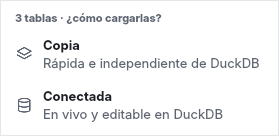
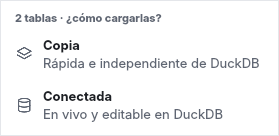
F-131: SPEC §9 y qgis-import §4 (cada capa por separado), aceptación, guía de Windows y capturas de los tres pasos
Claude-Session: https://claude.ai/code/session_01BBcaD51NVbfNd1JY2tTumc

Changed region(s): [[0.1147, 0.0882, 0.5161, 0.1765], [0.0573, 0.1176, 0.086, 0.1765]]

diff --git a/tools/pro_send_shots.py b/tools/pro_send_shots.py
@@ -1,11 +1,12 @@
 # SPDX-License-Identifier: GPL-2.0-or-later
-"""Capturas de «Enviar a DuckDB» y del arrastre de Workspace Pro (G9 · E5) para revisarlas con el propietario.
+"""Capturas de «Capas de QGIS → DuckDB» (F-131) y del arrastre de Workspace Pro para revisarlas con el
+propietario.
 
     QT_QPA_PLATFORM=offscreen python tools/pro_send_shots.py <carpeta>
 
-En QGIS en español: el diálogo limpio (todo nuevo) y con una tabla que ya existe, la base resaltada al
-soltar, el progreso en el pie, el aviso final y el mini menú al soltar tablas en el mapa.
-Escribe `enviar-<pantalla>-<qt>.png`.
+En QGIS en español: la base resaltada al soltar, los tres pasos (capas, dónde, progreso y resumen), la línea
+del pie, el aviso final con «×» y el mini menú al soltar tablas en el mapa (el otro sentido).
+Escribe `anadir-<pantalla>-<qt>.png` y `enviar-soltar-en-mapa-<qt>.png`.
 """
 
 from __future__ import annotations
@@ -60,7 +61,6 @@ def main() -> None:  # noqa: PLR0915 - todas las capturas, en orden
     from geoduck.ui.pro.places import TABLE, Place
     from geoduck.ui.pro.sidebar import DATABASE, ROLE
     from geoduck.ui.pro.workspace import ProWorkspace
-    from geoduck.ui.send_dialog import SendDialog
 
     qt = "qt" + QT_VERSION_STR[0]
     theme(False)
@@ -68,33 +68,14 @@ def main() -> None:  # noqa: PLR0915 - todas las capturas, en orden
     coordinator = SessionCoordinator(make_memory_engine, QtDispatcher(), None, LayerSender())
     coordinator.start_memory_session()
     wait(lambda: coordinator.state is SessionState.READY and coordinator.catalog is not None)
-    coordinator.attach_database(
-        AttachRequest(f"{tmp}/db.duckdb", AccessMode.READ_WRITE, OpenAction.CREATE_NEW, "db")
-    )
-    wait(lambda: coordinator.state is SessionState.READY and coordinator.catalog.get("db") is not None)
-    medidores = layer("medidores", "Point", "POINT (-68.13 -16.5)", 1200)
+    request = AttachRequest(f"{tmp}/prueba.duckdb", AccessMode.READ_WRITE, OpenAction.CREATE_NEW, "prueba")
+    coordinator.attach_database(request)
+    wait(lambda: coordinator.state is SessionState.READY and coordinator.catalog.get("prueba") is not None)
+    medidores = layer("medidores", "Point", "POINT (-68.13 -16.5)", 200000)
     redes = layer("redes_bt", "LineString", "LINESTRING (-68.1 -16.5, -68.2 -16.6)", 340)
     zonas = layer("zonas", "Polygon", "POLYGON ((-68.1 -16.5, -68.2 -16.5, -68.2 -16.6, -68.1 -16.5))", 48)
-    ids = [medidores.id(), redes.id(), zonas.id()]
-
-    def dialog(name: str) -> None:
-        shown = SendDialog(
-            coordinator.send_candidates(ids),
-            coordinator.catalog,
-            coordinator.read_import_target,
-            checked=set(ids),
-            destination=("db", "main"),
-            pro=True,
-        )
-        shown.show()
-        wait(lambda: shown.target_ready)
-        settle(0.3)
-        shoot(shown, out / f"enviar-{name}-{qt}.png")
-        shown.close()
-        shown.deleteLater()
-
-    # 1. El diálogo cuando todo es nuevo (solo se abre desde Ctrl+K o «+»: al soltar, ni aparece)
-    dialog("dialogo-limpio")
+    clientes = QgsVectorLayer("None?field=id:integer", "clientes", "memory")
+    QgsProject.instance().addMapLayer(clientes)
 
     ws = ProWorkspace(coordinator, lambda: None, Store())
     ws.resize(1440, 900)
@@ -102,41 +83,57 @@ def main() -> None:  # noqa: PLR0915 - todas las capturas, en orden
     settle()
     tree = ws.sidebar.tree
     items = [tree.topLevelItem(i) for i in range(tree.topLevelItemCount())]
-    base = next(i for i in items if (i.data(0, ROLE) or ("",))[0] == DATABASE and i.text(0) == "db")
-    # 2. Capas arrastradas sobre «db»: borde de acento y el pie dice dónde irán
+    base = next(i for i in items if (i.data(0, ROLE) or ("",))[0] == DATABASE and i.text(0) == "prueba")
+    # Capas arrastradas sobre «prueba»: borde de acento y el pie dice dónde irán
     tree.drop_item = base
     tree.viewport().update()
-    ws.notify(tr("Drop to send {0} layer(s) to «{1}»").format(3, "db"))
+    ws.notify(tr("Drop to send {0} layer(s) to «{1}»").format(3, "prueba"))
     settle()
-    shoot(ws, out / f"enviar-soltar-en-base-{qt}.png")
+    shoot(ws, out / f"anadir-soltar-en-base-{qt}.png")
     tree.drop_item = None
-    # 3. Enviando: barra fina y «Cancelar» en el pie
-    ws.show_progress(tr("Sending {0} layer(s) to DuckDB…").format(3), 1588)
-    ws.set_progress(900)
-    settle()
-    shoot(ws, out / f"enviar-progreso-{qt}.png")
-    ws.hide_progress()
-    # 4. Sin diálogo (todo nuevo): el aviso final
-    ws.send_layers(ids, ("db", "main"))
-    wait(lambda: ws.quick_send.last_report is not None and coordinator.state is SessionState.READY, 60)
+    # 1. «Añadir capas de QGIS a DuckDB…»: todas las capas, agrupadas; las seleccionadas en QGIS, marcadas
+    ws.add_layers([medidores.id(), redes.id(), zonas.id()])
+    flow = ws.to_duckdb
+    window = flow.window
+    settle(0.3)
+    shoot(window, out / f"anadir-paso1-{qt}.png")
+    # 2. Dónde: la base, el esquema y qué pasará
+    flow.next_button.click()
+    wait(lambda: window.send_dialog is not None and window.send_dialog.target_ready)
+    dialog = window.send_dialog
+    dialog.destination.setCurrentIndex([d for d, _s in dialog.destinations].index("prueba"))
+    wait(lambda: dialog.target_ready)
+    flow._sync_add()
+    settle(0.3)
+    shoot(window, out / f"anadir-paso2-{qt}.png")
+    # 3. Progreso capa por capa
+    flow.add_button.click()
+    big = next(i for i, state in enumerate(flow.states) if state["name"] == "medidores")
+    wait(lambda: flow.states[big]["state"] == "running" and flow.states[big]["rows"] > 0, 60)
+    waiting = [i for i, state in enumerate(flow.states) if state["state"] == "waiting"]
+    if waiting:
+        flow.remove(waiting[-1])  # una capa quitada mientras espera
+    settle(0.2)
+    shoot(window, out / f"anadir-paso3-{qt}.png")
+    shoot(ws, out / f"anadir-pie-{qt}.png")
+    wait(lambda: not flow.running, 120)
+    settle(0.3)
+    shoot(window, out / f"anadir-paso3-listo-{qt}.png")
+    window.hide()
+    ws.toast(flow.done_text(), [(tr("Open"), lambda: None), (tr("Undo"), lambda: None)], 0)
     settle(0.4)
-    shoot(ws, out / f"enviar-aviso-{qt}.png")
-    # 5. Las mismas capas otra vez: ya existen, así que sí se abre el diálogo (con «Qué pasará»)
-    coordinator.refresh_catalog()
-    wait(lambda: coordinator.state is SessionState.READY)
-    dialog("dialogo-ya-existe")
-    # 6. Tablas soltadas en el mapa: el mini menú
+    shoot(ws, out / f"anadir-aviso-{qt}.png")
+    # Tablas de DuckDB soltadas en el mapa: el mini menú (el otro sentido)
     handler = PlacesDropHandler(lambda: ws)
-    places = [Place(TABLE, name, "db", "main") for name in ("medidores", "redes_bt", "zonas")]
+    places = [Place(TABLE, name, "prueba", "main") for name in ("medidores", "redes_bt")]
     handler.show_menu(ws, places, ws.mapToGlobal(ws.rect().center()))
     settle()
     shoot(handler.menu, out / f"enviar-soltar-en-mapa-{qt}.png")
     handler.menu.close()
     ws.detach_coordinator()
     coordinator.shutdown(10)
-    settings.remove("locale/overrideFlag")
-    settings.remove("locale/userLocale")
-    app.exitQgis()
+    sys.stdout.flush()
+    os._exit(0)  # como pro_shots: sin la limpieza de PyQt5 al salir
 
 
 if __name__ == "__main__":

diff --git a/docs/g9/acceptance.md b/docs/g9/acceptance.md
@@ -2,7 +2,7 @@
 
 **Estado:** Propuesto para aceptación (E7). La aceptación la da el propietario; el tag y la release `v0.10.0a1`
 también los hace él. Versión en `metadata.txt` y `geoduck/__init__.py`: `0.10.0a1` (en este PR).
-**Base verificada:** E0–E6b (#114–#124), la corrección G8 de cancelar (#119) y F-130 (#126). Las cifras de la CI de este PR se
+**Base verificada:** E0–E6b (#114–#124), la corrección G8 de cancelar (#119) F-130 (#126) y las observaciones de la prueba en Windows (#127). Las cifras de la CI de este PR se
 anotan en un comentario del PR. **Contrato:** `docs/g9/plan.md`, `spec/specs/workspace-pro-spec.md`
 (GD-WSP-001..012), ADR-0016, `spec/qa/test-strategy.md`.
 
@@ -36,7 +36,7 @@ Archivos en `tests/`: `qgis/test_pro_design.py` (D), `qgis/test_pro_workspace.py
 | AT-WSP-006 | Ctrl+K con 1 000 objetos; sin acentos; Intro y Esc | W `test_ctrl_k_finds_without_accents_opens_with_enter_and_closes_with_esc`, `test_ctrl_k_with_a_thousand_objects_answers_under_50_ms_per_key`; u-F (5 pruebas) |
 | AT-WSP-007 | «Copia» y «Conectada»; GDAL sin `WriteArrow`; guardar y reabrir con una «Copia»; «Más opciones…» | L `test_copy_is_the_fast_one_unless_gdal_cannot`, `test_copy_from_the_table_tab_loads_it_with_its_crs_and_without_questions`, `test_connected_from_the_table_is_the_table_itself_and_with_filters_only_those_rows`, `test_a_missing_crs_is_asked_once_and_cancel_loads_nothing`, `test_saving_the_project_offers_to_keep_the_copies_and_they_survive_reopening`, `test_no_thanks_is_not_asked_again_and_reopening_explains_the_lost_copies`, `test_reproject_to_on_a_copy`, `test_a_text_column_loads_as_geometry_with_the_crs_asked_once`, `test_choosing_one_of_two_geometries_loads_one_layer`; X `test_view_on_map_after_loading_selects_zooms_and_minimizes_the_window`; las cargas de G3–G4 (`test_crs_axes`, `test_families`, `test_multi_geometry`, `test_load_connected`) con el aviso nuevo |
 | AT-WSP-008 | Recientes y ★ tras reiniciar; objeto borrado | W `test_favorites_survive_a_restart_and_a_dropped_table_is_dimmed_with_its_reason`, `test_new_queries_are_numbered_and_tabs_come_back_after_a_restart`; u-P (9 pruebas: solo nombres en las opciones) |
-| AT-WSP-009 | Enviar desde el diálogo nuevo; arrastrar capas a una base; Ctrl+K | S `test_dropping_on_a_database_sends_without_a_dialog_and_offers_open_and_undo`, `test_an_existing_table_opens_the_dialog_with_the_new_style`, `test_a_selection_is_a_decision_too`, `test_a_database_that_cannot_store_the_crs_is_a_decision`, `test_dropping_on_empty_space_goes_to_the_current_database`, `test_tables_dragged_to_the_map_ask_how_and_ask_the_crs_once`; X `test_the_layer_menu_sends_like_dropping_and_shows_geoduck`, `test_the_plus_entry_always_opens_the_dialog_to_choose`; AT-IMP-001..007 siguen en `test_send_ui.py` y `test_import_layers.py` |
+| AT-WSP-009 | «Capas de QGIS → DuckDB» en tres pasos desde arrastrar, el clic derecho y «+»/Ctrl+K; cada capa por separado | S `test_dropping_on_a_database_opens_the_three_steps_with_that_database`, `test_each_layer_is_saved_on_its_own_and_one_can_be_removed`, `test_cancel_all_before_it_starts_adds_nothing`, `test_a_layer_that_fails_is_marked_and_the_others_go_on`, `test_in_the_background_the_footer_brings_it_back_and_the_end_shows_a_closable_notice`, `test_an_existing_table_is_shown_and_skipped_unless_chosen`, `test_add_layers_shows_every_layer_grouped_and_an_empty_project_says_so`, `test_while_adding_another_drop_shows_the_progress`, `test_a_database_that_cannot_store_the_crs_says_so_in_step_two`, `test_dropping_on_empty_space_goes_to_the_current_database`, `test_tables_dragged_to_the_map_ask_how_and_ask_the_crs_once`; X `test_the_layer_menu_opens_step_one_with_the_selected_layers`, `test_the_plus_entry_opens_step_one_with_every_layer`; AT-IMP-001..007 siguen en `test_send_ui.py` y `test_import_layers.py` |
 | AT-WSP-010 | Solo teclado; inglés y español; sin sesión, cargando, vacío y error; panel estrecho | I (inglés, español y otro idioma, con QGIS real); Q `test_without_duckdb_everything_is_grey_except_start`; W `test_without_session_it_offers_to_start_and_then_welcomes`; X `test_a_narrow_panel_keeps_every_action_within_reach`, `test_an_aborted_transaction_offers_roll_back_and_the_session_recovers`; `test_plugin.py` `test_broken_environment_disables_start` (entorno incompleto); D `test_buttons_always_have_a_name_and_help` |
 | AT-WSP-011 | Actualizar desde 0.9.0a1 con cuadernos guardados abiertos | X `test_updating_keeps_presentation_and_open_notebooks_come_back_as_queries` |
 | AT-WSP-012 | Medidas de §13 en QGIS 3.44 y 4.2 | §5 y [`docs/evidence/g9/rendimiento/`](../evidence/g9/rendimiento/README.md) |
@@ -70,7 +70,7 @@ qué pasará, antes de una acción una frase de lo que ocurrirá».
 | Cargar en QGIS | Copia o Conectada, con una línea cada una | «Más opciones…», con resumen y una línea por opción | Cumple (E6b) |
 | SRC que falta | Solo aparece si falta; una vez para todas | — | Cumple |
 | Guardar copias | Un clic, con qué archivo se crea | «No, gracias» | Cumple |
-| Enviar capas | Soltar o menú de capa: sin ventana si todo es nuevo; «Deshacer» | La ventana solo si hay algo que decidir; «Reproyectar» en «Más opciones» | Cumple |
+| Capas de QGIS → DuckDB | Tres pasos claros, el mismo desde las tres formas; la base donde se soltó ya elegida | «Más opciones» en el paso 2; «×» por capa y «Cancelar todo» en el paso 3 | Cumple (F-131) |
 | Tablas al mapa | Mini menú Copia / Conectada donde se soltó | — | Cumple |
 | Ctrl+K | Escribir e Intro | Acciones en la misma lista | Cumple |
 | Historial | Doble clic abre la sentencia | Filtro y «Limpiar» | Cumple |
@@ -102,6 +102,8 @@ Ver [`docs/evidence/g9/rendimiento/README.md`](../evidence/g9/rendimiento/README
 | 2026-11-06 | E5 («Tú decide»): enviar sin ventana si no hay nada que decidir; ventana más limpia; base resaltada al soltar; progreso en el pie |
 | 2026-11-06 | E6 («Tú decide»): «Historial», «Revertir» y «Ver en el mapa» en la interfaz nueva; el menú de capa envía como soltar |
 | 2026-11-06 | Las opciones avanzadas de carga no se pierden: «Más opciones…» (E6b) |
+| 2026-11-06 | Tras la prueba en Windows: arrastrar, el clic derecho y «Añadir capas de QGIS a DuckDB…» abren la misma ventana de tres pasos (capas, dónde, progreso); cada capa se guarda por separado; «Añadir … a DuckDB» / «Cargar en QGIS»; GeoDuck es el complemento y DuckDB la base (F-131) |
+| 2026-11-06 | Todos los avisos llevan «×» (F-132) |
 | 2026-11-06 | **Principio de toda la interfaz:** el balance entre ofrecer opciones y no complicar (SPEC §1) |
 
 ## 7. Hallazgos
@@ -116,6 +118,8 @@ Ver [`docs/evidence/g9/rendimiento/README.md`](../evidence/g9/rendimiento/README
 | F-128 | DuckDB 1.5 no aborta la transacción por un error de catálogo (2.0 sí); el texto de la sentencia lleva «;» solo en 2.0 | Las pruebas usan una clave repetida, que aborta en las dos (E6) |
 | F-129 | En QGIS 3.34, dos pruebas de `test_pro_load` fallan **corridas solas** (la capa queda sin SRC); dentro de la suite pasan. También en `main` antes de E6 | Abierto: se revisa en G10. No afecta a QGIS real (la base de SRC ya está iniciada) — por confirmar en la prueba de Windows, paso 4b |
 | F-130 | En la prueba de Windows (QGIS 3.44.7 de OSGeo4W), GeoDuck no abría: la DLL de `pyarrow._parquet` no cargaba y `initGui` importaba `pyarrow.parquet` | `pyarrow.parquet` solo al mirar si una capa es GeoParquet; sin él, el camino general (#126) |
+| F-131 | «Enviar capas de QGIS a DuckDB…» no se entendía y, sin capas vectoriales, solo lo decía una línea del pie; cada forma de añadir capas se comportaba distinto | Una ventana de tres pasos para las tres formas; sin capas lo dice dentro; progreso y cancelación por capa (#127) |
+| F-132 | Los avisos no tenían cómo cerrarse | «×» en todos (#127) |
 | — | Las capturas de la CI (`pro_shots`) se caían al cerrar Qt 5 tras escribirlas | Salen sin la limpieza de PyQt5 (E6) |
 
 ## 8. Limitaciones conocidas

diff --git a/spec/GEODUCK_SPEC_MAESTRA.md b/spec/GEODUCK_SPEC_MAESTRA.md
@@ -1266,10 +1266,13 @@ acción explica que hay que iniciar una.
 - «Abrir la tabla al terminar» (recordado). Ctrl+Intro envía; Esc cancela.
 
 ## 4. Garantías (GD-IMP-003)
-- **Todo o nada:** todas las capas del envío en **una transacción** de DuckDB en la base destino; si una
-  falla o se cancela, `ROLLBACK` y no queda ninguna tabla nueva, reemplazada ni ampliada.
+- **Cada capa por separado** (desde G9, propietario 2026-11-06; antes «todo o nada»): cada capa en **su
+  transacción** de DuckDB en la base destino; si una falla o se cancela, `ROLLBACK` de esa capa y no queda su
+  tabla nueva, reemplazada ni ampliada; las que ya terminaron quedan («Deshacer» borra las nuevas).
+  `import_batches` sigue siendo «todo o nada» para lo que recibe; la interfaz le pasa una capa cada vez
+  (workspace-pro-spec §9).
 - **Progreso y cancelación** por capa y en total; la interfaz de QGIS sigue respondiendo.
-- **Conteo:** al terminar, filas en DuckDB = entidades leídas de cada capa; si no, `ROLLBACK` y error.
+- **Conteo:** al terminar cada capa, filas en DuckDB = entidades leídas; si no, `ROLLBACK` de esa capa y error.
 - **Sin pérdidas silenciosas:** un campo que no se puede convertir, una geometría ilegible o un SRC que no se
   puede expresar detienen el envío con su motivo, o se avisan antes de enviar si el diálogo ya lo sabe.
 - La capa de QGIS, su selección y su filtro no cambian.
@@ -1450,23 +1453,41 @@ Reproyectar, separar por tipo y SRC siguen igual (spatial-spec), escondidos hast
 - Se recuerdan entre reinicios de QGIS (propietario, 2026-11-05). Se guardan solo **nombres** (base, esquema, objeto; ruta del `.sql`) en `QgsSettings`, nunca datos. Si un
   objeto ya no existe, se muestra atenuado con su motivo.
 
-## 9. Enviar a DuckDB (GD-WSP-008; qgis-import-spec)
-El diálogo de G8 rehecho con el sistema de diseño, mismo comportamiento. Ctrl+K → «Enviar capa de QGIS a
-DuckDB…». «Reproyectar a…» sigue siendo global para todo el envío (decisión, 2026-11-05).
+## 9. Capas de QGIS → DuckDB (GD-WSP-008; qgis-import-spec)
+**Una sola ventana de tres pasos para las tres formas** (propietario, 2026-11-06, tras la prueba en Windows:
+F-131; reemplaza el envío directo de E5). Ctrl+K y «+» → «Añadir capas de QGIS a DuckDB…»; en QGIS, clic
+derecho sobre capas → «Añadir a DuckDB…». «Reproyectar a…» sigue siendo global para todas las capas.
 
-**Arrastrar, en los dos sentidos** (propietario, 2026-11-06; E5). Lo mínimo: se pregunta solo lo que falta.
-- **QGIS → DuckDB:** soltar una o varias capas del panel de capas en una base de la barra lateral (en el panel
-  acoplado, en cualquier parte: la base actual). Cada tabla guarda el SRC de su capa. Simplificaciones
-  (propietario, 2026-11-06: «Tú decide»):
-  1. **Sin diálogo si no hay nada que decidir:** si todas serán tablas nuevas, sin selección y con SRC, se
-     envían directamente y el pie avisa «N capas enviadas a db · Abrir · Deshacer». El diálogo (con la base y
-     las capas elegidas) solo se abre si hay algo que decidir: una tabla que ya existe, una capa que no se
-     puede, una selección o el SRC.
-  2. **Diálogo más limpio:** sin la columna «Qué pasará» si todo es una tabla nueva; «Reproyectar a…» y «Vista
-     en vez de copia», plegados bajo «Más opciones».
-  3. **Dónde se suelta, claro:** la base bajo el cursor se resalta con un borde de acento y el pie dice
-     «Suelta para enviar N capas a «db»»; en un espacio vacío o en la cabecera, la base actual.
-  4. **Progreso en el pie:** una barra fina y «Cancelar»; sin otra ventana.
+| Cómo empieza | Paso 1 · Capas | Paso 2 · Dónde |
+|---|---|---|
+| Arrastrar capas a GeoDuck | Las arrastradas, marcadas | La base donde se soltaron (o la actual) |
+| Clic derecho › «Añadir a DuckDB…» | Las seleccionadas en QGIS, marcadas | La base actual |
+| «Añadir capas de QGIS a DuckDB…» | Todas las del proyecto; marcadas las seleccionadas en QGIS | La base actual |
+
+1. **Capas:** agrupadas en Puntos, Líneas, Polígonos y Tablas sin geometría, con el icono de QGIS, entidades y
+   SRC; las que no se pueden (ráster…), en gris con su motivo. Sin capas vectoriales, la ventana lo dice.
+   «N capas elegidas» y «Siguiente ›».
+2. **Dónde:** base y esquema, **siempre cambiables** (solo bases escribibles); «Qué pasará» con cada capa
+   (siempre a la vista); «Más opciones» («Reproyectar a…», «Vista en vez de copia»); una frase de lo que
+   ocurrirá. «‹ Atrás» y «Añadir N capas a DuckDB».
+3. **Progreso:** una fila por capa (✓ añadida, ⟳ copiándose con su %, ○ en espera, ✕ cancelada o con error).
+   «×» quita una capa en espera o detiene la que se copia; «Cancelar todo»; «Seguir en segundo plano». Al
+   terminar: qué pasó con cada una, «Deshacer», «Abrir» y «Cerrar».
+
+- **Cada capa se guarda por separado** (una transacción por capa; reemplaza «todo o nada» de G8, propietario
+  2026-11-06): las que terminaron quedan aunque se cancelen o fallen otras; «Deshacer» borra las tablas
+  nuevas. Las capas van una tras otra (DuckDB escribe de a una cosa).
+- **En segundo plano:** el pie muestra «⟳ Añadiendo 2 de 4 a DuckDB · redes_bt 62 %»; un clic (o Ctrl+K ›
+  «Ver progreso: capas de QGIS → DuckDB») vuelve al paso 3. Si se intenta añadir más mientras tanto, se
+  muestra el paso 3 en curso: «Termina o cancela estas capas para añadir más». Al terminar con la ventana
+  cerrada, un aviso «N capas de QGIS añadidas a DuckDB · prueba · Abrir · Deshacer · ×».
+- **Dónde se suelta, claro:** la base bajo el cursor se resalta con un borde de acento y el pie dice
+  «Suelta para enviar N capas a «db»»; en un espacio vacío o en la cabecera, la base actual.
+- **Nombres:** «Añadir … a DuckDB» siempre termina en DuckDB (QGIS → DuckDB); «Cargar en QGIS» siempre termina
+  en QGIS (DuckDB → QGIS). **GeoDuck** es el complemento; **DuckDB**, la base donde quedan los datos.
+- **Avisos:** todos llevan «×» para cerrarlos sin hacer nada más (F-132).
+
+**Arrastrar, en los dos sentidos** (propietario, 2026-11-06; E5).
 - **DuckDB → QGIS:** soltar una o varias tablas o vistas en el mapa o en el panel de capas abre un **mini
   menú** «Copia» / «Conectada»: un clic carga todo lo soltado; Esc cancela. El SRC sale de la columna de
   geometría (`GEOMETRY('EPSG:4326')`); **solo si a alguna le falta**, una sola ventana pequeña pide uno para

diff --git a/docs/certification/workspace-pro.md b/docs/certification/workspace-pro.md
@@ -68,20 +68,25 @@ Anote cada paso como **OK** o **Falla** (con captura) en `docs/evidence/g9/windo
 | 4g | Cierre y abra el proyecto | Las capas guardadas abren desde el GeoPackage; si eligió «No, gracias», un aviso dice cuáles quedaron vacías y por qué |
 | 4h | Arrastre `pozos` (y otra tabla) desde la barra lateral **al mapa**; repita soltándolas en el **panel de capas** | Mini menú «2 tablas · ¿cómo cargarlas?» con Copia / Conectada donde soltó; Esc cancela sin cargar nada |
 
-## 5. Enviar capas a DuckDB (G8 con la interfaz nueva; AT-WSP-009, AT-IMP-001..007)
+## 5. Capas de QGIS → DuckDB (G8 con la interfaz nueva; AT-WSP-009, AT-IMP-001..007)
 
 | # | Haga | Debe pasar |
 |---|---|---|
-| 5a | Clic derecho sobre el GeoPackage en el panel de capas → «Enviar a DuckDB…» | Sin ventana: GeoDuck se muestra, una barra fina con «Cancelar» en el pie y, al terminar, «Capa «…» enviada a … · Abrir · Deshacer» |
-| 5b | «Abrir» | La tabla, en una pestaña |
-| 5c | Arrastre el Shapefile y el CSV desde el panel de capas **sobre «prueba»** en la barra lateral | La base se resalta con un borde y el pie dice «Suelta para enviar 2 capa(s) a «prueba»»; se envían a «prueba» sin ventana |
-| 5d | Arrastre otra vez el GeoPackage sobre «prueba» | Ahora **sí** se abre la ventana (la tabla ya existe): «Ya existe: no se enviará»; elija «Reemplazar» o «Otro nombre» |
-| 5e | Seleccione unas entidades en el mapa y arrastre la capa | Se abre la ventana con «Solo las entidades seleccionadas (N)» |
-| 5f | «+» → «Enviar capas de QGIS a DuckDB…» | La ventana con todas las capas del proyecto; el ráster, en gris con su motivo; «Más opciones» pliega «Reproyectar a…» |
-| 5g | Envíe una capa de 1 millón de entidades y pulse «Cancelar» en el pie a mitad | «Envío cancelado: no cambió nada en DuckDB.»; la tabla no existe |
-| 5h | Tras un envío de una tabla nueva, «Deshacer» | «Deshecho: …»; la tabla desaparece de la barra lateral |
-| 5i | Cierre DuckDB («Cerrar DuckDB») y repita 5a | El pie dice «Inicia DuckDB para enviar capas.» |
-| 5j | Con DuckDB 1.5.x, envíe a una base **nueva** en archivo | La ventana se abre: esa base no guarda el SRC; «Enviar sin SRC» aparece y nada se envía hasta marcarlo (F-120) |
+| 5a | Clic derecho sobre el GeoPackage en el panel de capas → «Añadir a DuckDB…» | GeoDuck se muestra con «Capas de QGIS → DuckDB · 1 de 3» y esa capa marcada |
+| 5b | «Siguiente ›» | Paso 2: base y esquema (puede cambiarlos), «Qué pasará» («Tabla nueva») y la frase de lo que ocurrirá |
+| 5c | «Añadir 1 capa a DuckDB» | Paso 3: la capa con ⟳ y su % hasta ✓; al terminar «Deshacer», «Abrir» y «Cerrar». «Abrir» abre la tabla en una pestaña |
+| 5d | Arrastre el Shapefile y el CSV desde el panel de capas **sobre «prueba»** en la barra lateral | La base se resalta con un borde y el pie dice «Suelta para enviar 2 capa(s) a «prueba»»; paso 1 con esas dos capas; en el paso 2, «prueba» ya elegida |
+| 5e | Arrastre otra vez el GeoPackage sobre «prueba» y pase al paso 2 | «Ya existe: no se enviará»; elija «Reemplazar» u «Otro nombre» para poder añadirla |
+| 5f | Seleccione unas entidades en el mapa, arrastre la capa y pase al paso 2 | «Solo las entidades seleccionadas (N)» |
+| 5g | «+» → «Añadir capas de QGIS a DuckDB…» | Paso 1 con **todas** las capas, agrupadas (Puntos, Líneas, Polígonos, Tablas sin geometría); el ráster, en gris con su motivo; las seleccionadas en QGIS, ya marcadas |
+| 5h | Añada 4 capas (una grande, de cientos de miles de entidades); en el paso 3 pulse «×» en una que espera | Esa queda «cancelada» y las demás siguen; al terminar, las añadidas quedan en DuckDB |
+| 5i | Repita y pulse «×» en la que se está copiando | Esa se detiene y no queda en DuckDB; la siguiente empieza |
+| 5j | Repita y pulse «Seguir en segundo plano» | La ventana se cierra; el pie dice «⟳ Añadiendo … a DuckDB · …%»; un clic ahí vuelve al paso 3. Al terminar con la ventana cerrada: aviso «N capas de QGIS añadidas a DuckDB · …» con «Abrir», «Deshacer» y **«×»** |
+| 5k | «Cancelar todo» a mitad | Se detiene la actual y se quitan las que faltan; las ya añadidas quedan |
+| 5l | «Deshacer» tras añadir tablas nuevas | «Deshecho: …»; las tablas desaparecen de la barra lateral |
+| 5m | Sin capas en el proyecto, «+» → «Añadir capas de QGIS a DuckDB…» | La ventana dice «Tu proyecto de QGIS no tiene capas vectoriales…»; «Siguiente» en gris |
+| 5n | Cierre DuckDB («Cerrar DuckDB») y arrastre una capa | El pie dice «Inicia DuckDB para añadir capas.» |
+| 5o | Con DuckDB 1.5.x, añada a una base **nueva** en archivo | En el paso 2 aparece «Enviar sin SRC»: esa base no guarda el SRC; no se añade hasta marcarlo (F-120) |
 
 ## 6. Pantalla, tema, monitores y teclado (AT-WSP-001, 010)
 
@@ -100,8 +105,8 @@ Windows: Configuración → Pantalla → Escala. Reinicie QGIS después de cada 
 
 | # | Haga | Debe pasar |
 |---|---|---|
-| 7a | QGIS en inglés, reinicie | «Start DuckDB», «Send to DuckDB…», «Load into QGIS», «More options…» |
-| 7b | QGIS en español, reinicie | «Iniciar DuckDB», «Enviar a DuckDB…», «Cargar en QGIS», «Más opciones…» |
+| 7a | QGIS en inglés, reinicie | «Start DuckDB», «Add to DuckDB…», «Load into QGIS», «More options…» |
+| 7b | QGIS en español, reinicie | «Iniciar DuckDB», «Añadir a DuckDB…», «Cargar en QGIS», «Más opciones…» |
 | 7c | (Opcional, en un QGIS sin DuckDB) Abra GeoDuck | «El entorno no está listo para GeoDuck» · «Falta: DuckDB…» con «Diagnóstico»; «Iniciar DuckDB» en gris |
 | 7d | «Acerca de GeoDuck…» (menú Base de datos › GeoDuck) | Versión 0.10.0a1, licencia, enlaces y componentes; sin correos |
 

diff --git a/spec/specs/workspace-pro-spec.md b/spec/specs/workspace-pro-spec.md
@@ -101,23 +101,41 @@ Reproyectar, separar por tipo y SRC siguen igual (spatial-spec), escondidos hast
 - Se recuerdan entre reinicios de QGIS (propietario, 2026-11-05). Se guardan solo **nombres** (base, esquema, objeto; ruta del `.sql`) en `QgsSettings`, nunca datos. Si un
   objeto ya no existe, se muestra atenuado con su motivo.
 
-## 9. Enviar a DuckDB (GD-WSP-008; qgis-import-spec)
-El diálogo de G8 rehecho con el sistema de diseño, mismo comportamiento. Ctrl+K → «Enviar capa de QGIS a
-DuckDB…». «Reproyectar a…» sigue siendo global para todo el envío (decisión, 2026-11-05).
+## 9. Capas de QGIS → DuckDB (GD-WSP-008; qgis-import-spec)
+**Una sola ventana de tres pasos para las tres formas** (propietario, 2026-11-06, tras la prueba en Windows:
+F-131; reemplaza el envío directo de E5). Ctrl+K y «+» → «Añadir capas de QGIS a DuckDB…»; en QGIS, clic
+derecho sobre capas → «Añadir a DuckDB…». «Reproyectar a…» sigue siendo global para todas las capas.
 
-**Arrastrar, en los dos sentidos** (propietario, 2026-11-06; E5). Lo mínimo: se pregunta solo lo que falta.
-- **QGIS → DuckDB:** soltar una o varias capas del panel de capas en una base de la barra lateral (en el panel
-  acoplado, en cualquier parte: la base actual). Cada tabla guarda el SRC de su capa. Simplificaciones
-  (propietario, 2026-11-06: «Tú decide»):
-  1. **Sin diálogo si no hay nada que decidir:** si todas serán tablas nuevas, sin selección y con SRC, se
-     envían directamente y el pie avisa «N capas enviadas a db · Abrir · Deshacer». El diálogo (con la base y
-     las capas elegidas) solo se abre si hay algo que decidir: una tabla que ya existe, una capa que no se
-     puede, una selección o el SRC.
-  2. **Diálogo más limpio:** sin la columna «Qué pasará» si todo es una tabla nueva; «Reproyectar a…» y «Vista
-     en vez de copia», plegados bajo «Más opciones».
-  3. **Dónde se suelta, claro:** la base bajo el cursor se resalta con un borde de acento y el pie dice
-     «Suelta para enviar N capas a «db»»; en un espacio vacío o en la cabecera, la base actual.
-  4. **Progreso en el pie:** una barra fina y «Cancelar»; sin otra ventana.
+| Cómo empieza | Paso 1 · Capas | Paso 2 · Dónde |
+|---|---|---|
+| Arrastrar capas a GeoDuck | Las arrastradas, marcadas | La base donde se soltaron (o la actual) |
+| Clic derecho › «Añadir a DuckDB…» | Las seleccionadas en QGIS, marcadas | La base actual |
+| «Añadir capas de QGIS a DuckDB…» | Todas las del proyecto; marcadas las seleccionadas en QGIS | La base actual |
+
+1. **Capas:** agrupadas en Puntos, Líneas, Polígonos y Tablas sin geometría, con el icono de QGIS, entidades y
+   SRC; las que no se pueden (ráster…), en gris con su motivo. Sin capas vectoriales, la ventana lo dice.
+   «N capas elegidas» y «Siguiente ›».
+2. **Dónde:** base y esquema, **siempre cambiables** (solo bases escribibles); «Qué pasará» con cada capa
+   (siempre a la vista); «Más opciones» («Reproyectar a…», «Vista en vez de copia»); una frase de lo que
+   ocurrirá. «‹ Atrás» y «Añadir N capas a DuckDB».
+3. **Progreso:** una fila por capa (✓ añadida, ⟳ copiándose con su %, ○ en espera, ✕ cancelada o con error).
+   «×» quita una capa en espera o detiene la que se copia; «Cancelar todo»; «Seguir en segundo plano». Al
+   terminar: qué pasó con cada una, «Deshacer», «Abrir» y «Cerrar».
+
+- **Cada capa se guarda por separado** (una transacción por capa; reemplaza «todo o nada» de G8, propietario
+  2026-11-06): las que terminaron quedan aunque se cancelen o fallen otras; «Deshacer» borra las tablas
+  nuevas. Las capas van una tras otra (DuckDB escribe de a una cosa).
+- **En segundo plano:** el pie muestra «⟳ Añadiendo 2 de 4 a DuckDB · redes_bt 62 %»; un clic (o Ctrl+K ›
+  «Ver progreso: capas de QGIS → DuckDB») vuelve al paso 3. Si se intenta añadir más mientras tanto, se
+  muestra el paso 3 en curso: «Termina o cancela estas capas para añadir más». Al terminar con la ventana
+  cerrada, un aviso «N capas de QGIS añadidas a DuckDB · prueba · Abrir · Deshacer · ×».
+- **Dónde se suelta, claro:** la base bajo el cursor se resalta con un borde de acento y el pie dice
+  «Suelta para enviar N capas a «db»»; en un espacio vacío o en la cabecera, la base actual.
+- **Nombres:** «Añadir … a DuckDB» siempre termina en DuckDB (QGIS → DuckDB); «Cargar en QGIS» siempre termina
+  en QGIS (DuckDB → QGIS). **GeoDuck** es el complemento; **DuckDB**, la base donde quedan los datos.
+- **Avisos:** todos llevan «×» para cerrarlos sin hacer nada más (F-132).
+
+**Arrastrar, en los dos sentidos** (propietario, 2026-11-06; E5).
 - **DuckDB → QGIS:** soltar una o varias tablas o vistas en el mapa o en el panel de capas abre un **mini
   menú** «Copia» / «Conectada»: un clic carga todo lo soltado; Esc cancela. El SRC sale de la columna de
   geometría (`GEOMETRY('EPSG:4326')`); **solo si a alguna le falta**, una sola ventana pequeña pide uno para

diff --git a/spec/specs/qgis-import-spec.md b/spec/specs/qgis-import-spec.md
@@ -39,10 +39,13 @@ acción explica que hay que iniciar una.
 - «Abrir la tabla al terminar» (recordado). Ctrl+Intro envía; Esc cancela.
 
 ## 4. Garantías (GD-IMP-003)
-- **Todo o nada:** todas las capas del envío en **una transacción** de DuckDB en la base destino; si una
-  falla o se cancela, `ROLLBACK` y no queda ninguna tabla nueva, reemplazada ni ampliada.
+- **Cada capa por separado** (desde G9, propietario 2026-11-06; antes «todo o nada»): cada capa en **su
+  transacción** de DuckDB en la base destino; si una falla o se cancela, `ROLLBACK` de esa capa y no queda su
+  tabla nueva, reemplazada ni ampliada; las que ya terminaron quedan («Deshacer» borra las nuevas).
+  `import_batches` sigue siendo «todo o nada» para lo que recibe; la interfaz le pasa una capa cada vez
+  (workspace-pro-spec §9).
 - **Progreso y cancelación** por capa y en total; la interfaz de QGIS sigue respondiendo.
-- **Conteo:** al terminar, filas en DuckDB = entidades leídas de cada capa; si no, `ROLLBACK` y error.
+- **Conteo:** al terminar cada capa, filas en DuckDB = entidades leídas; si no, `ROLLBACK` de esa capa y error.
 - **Sin pérdidas silenciosas:** un campo que no se puede convertir, una geometría ilegible o un SRC que no se
   puede expresar detienen el envío con su motivo, o se avisan antes de enviar si el diálogo ya lo sabe.
 - La capa de QGIS, su selección y su filtro no cambian.
